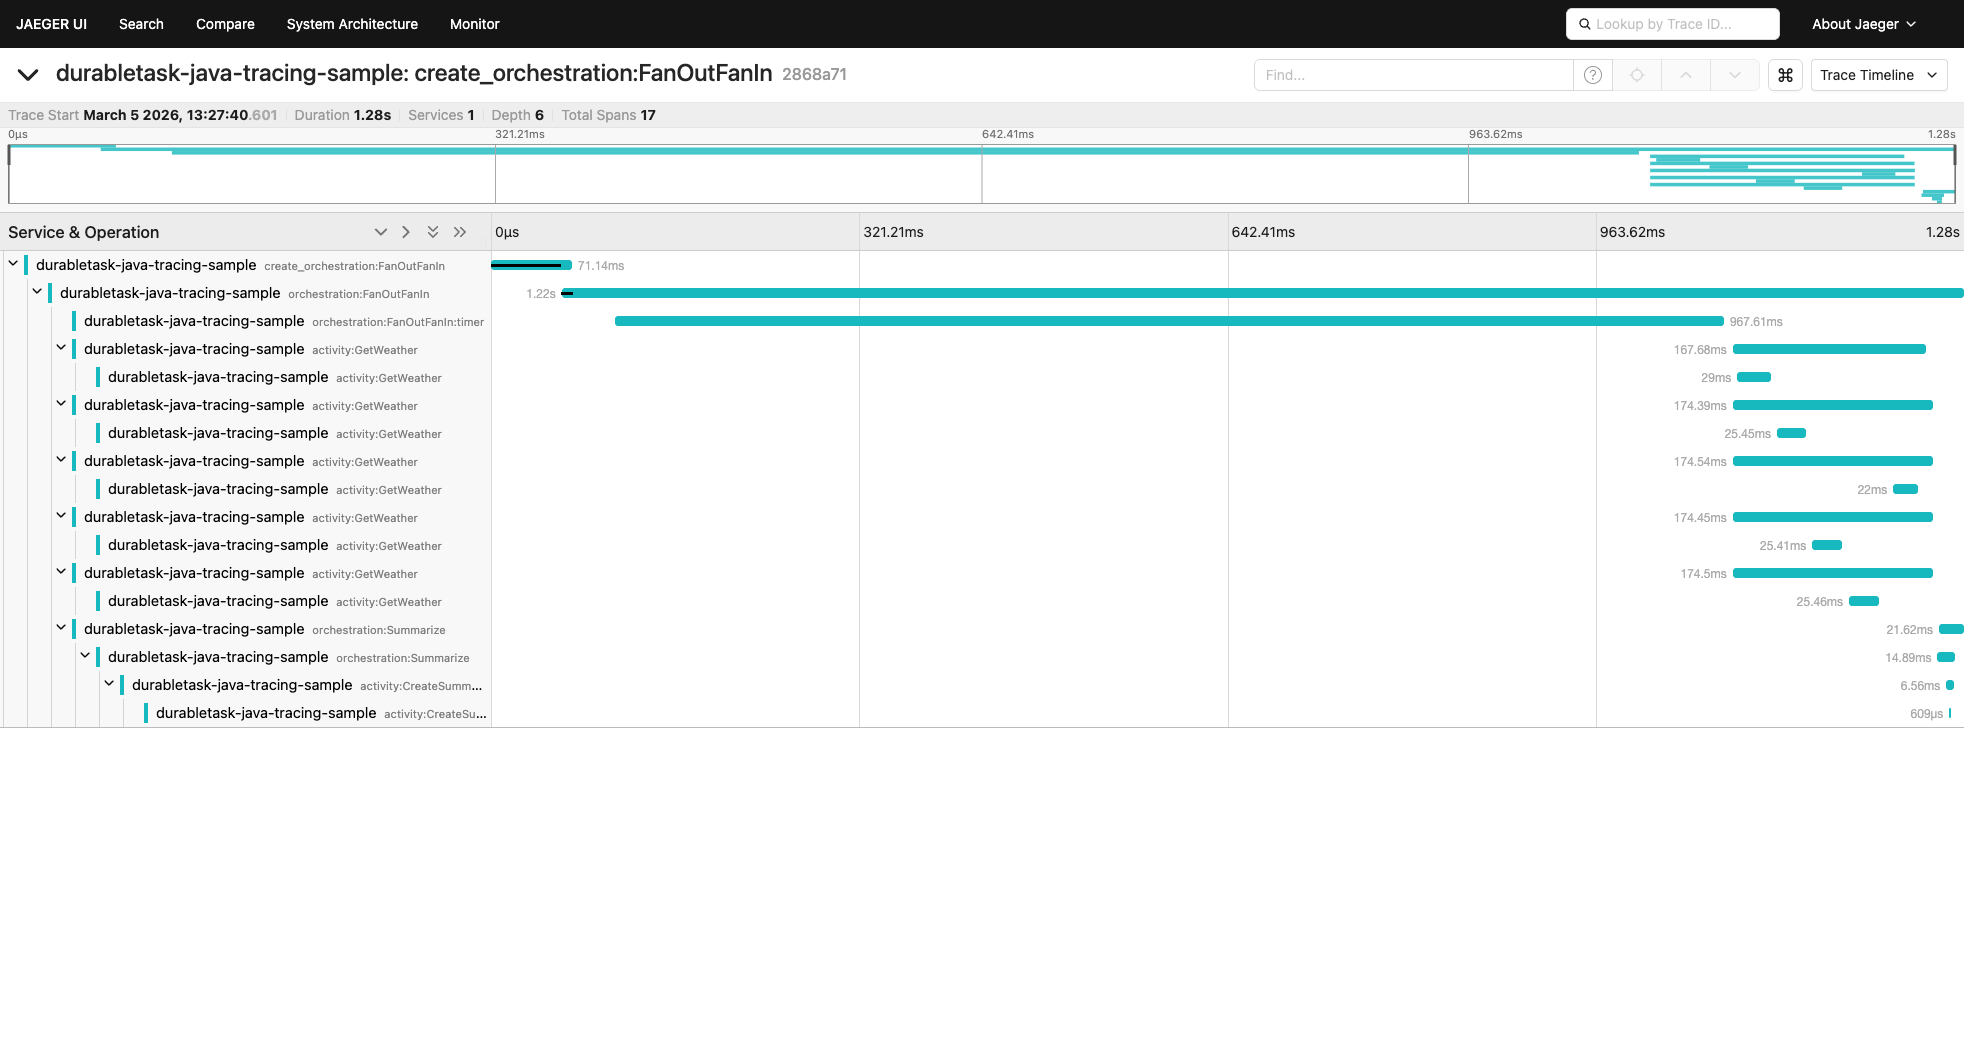
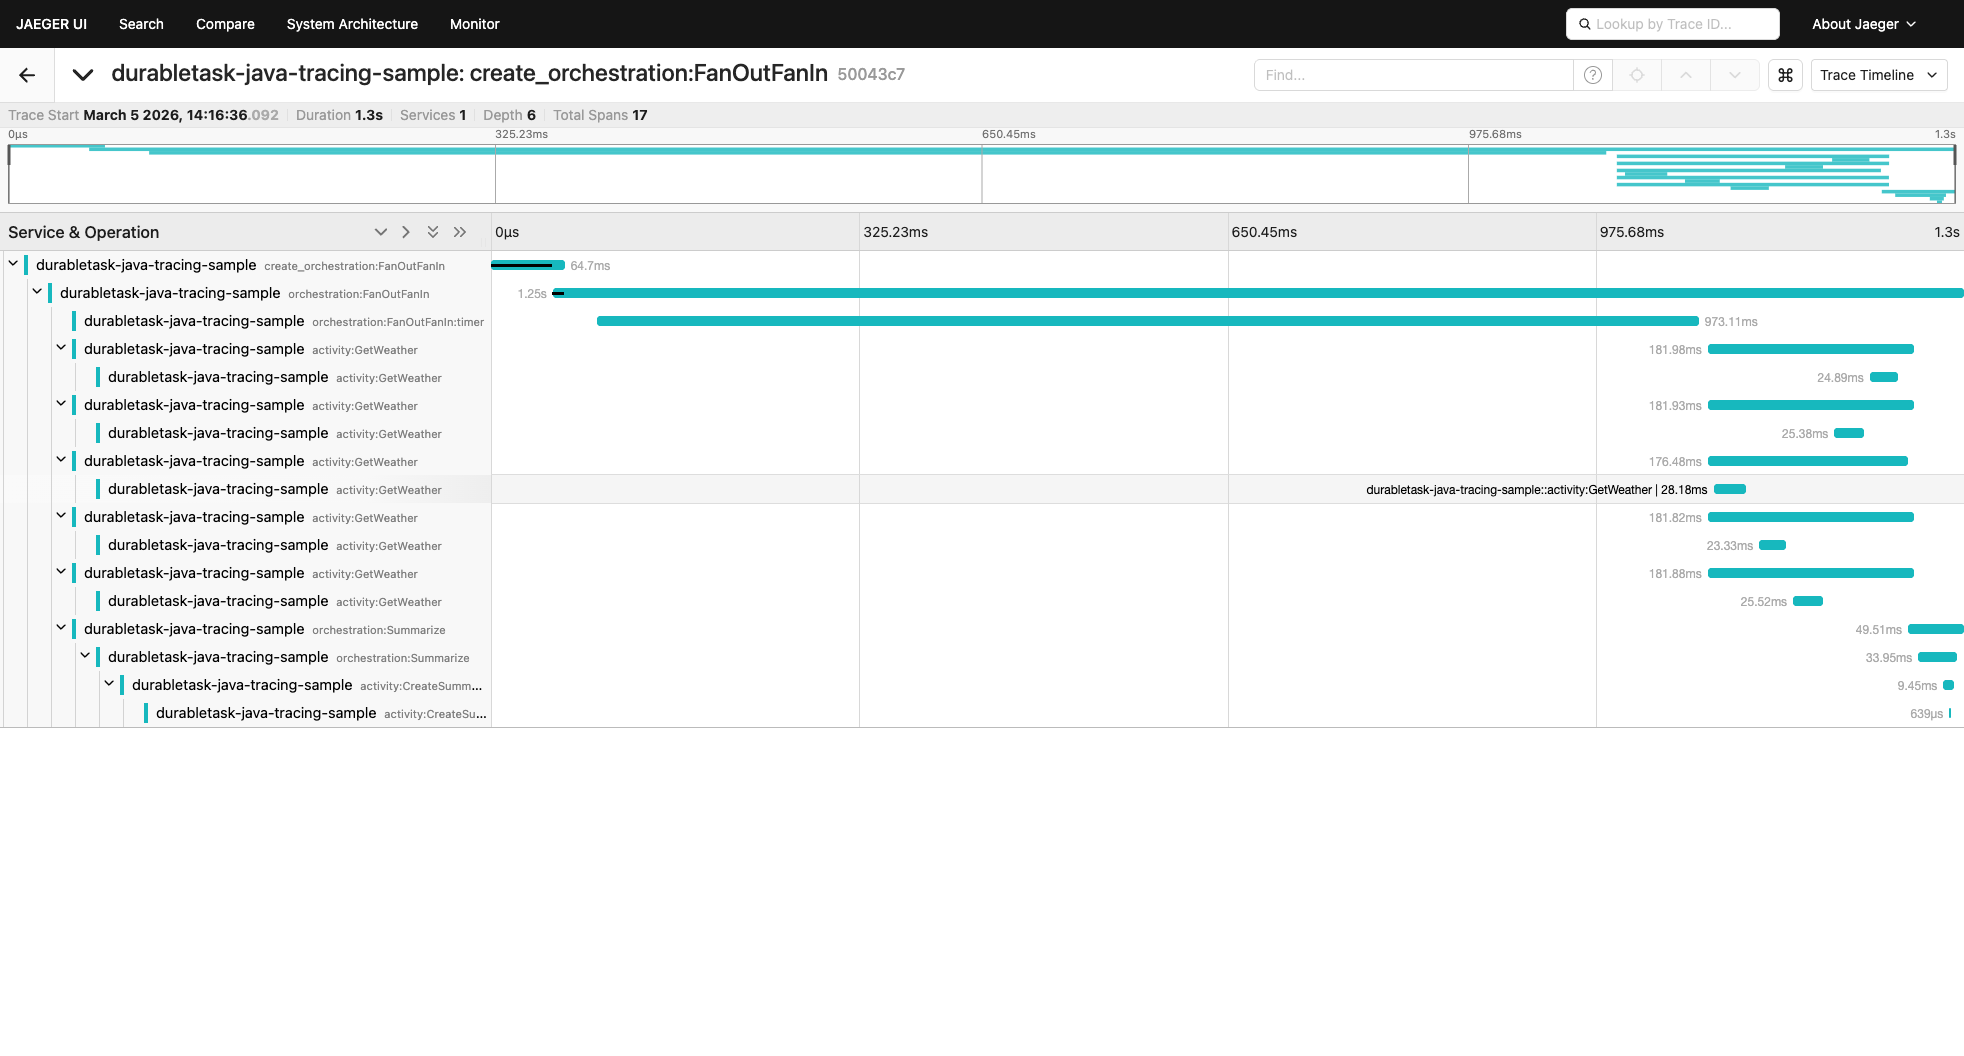
fix(tracing): fix sub-orchestration client span timing
Use the dispatch start time (OrchestratorStartedEvent) for sub-orchestration
client span start instead of SubOrchestrationInstanceCreatedEvent timestamp.
The created event is a server confirmation whose timestamp can be AFTER the
sub-orchestration's ExecutionStartedEvent, causing the client span to visually
start after the server span in Jaeger.

diff --git a/client/src/main/java/com/microsoft/durabletask/TaskOrchestrationExecutor.java b/client/src/main/java/com/microsoft/durabletask/TaskOrchestrationExecutor.java
@@ -561,7 +561,10 @@ final class TaskOrchestrationExecutor {
                         taskScheduled.getParentTraceContext().getTraceParent());
             }
 
-            storeSchedulingMetadata(taskId, taskScheduled.getName(), TracingHelper.TYPE_ACTIVITY, e, clientSpanId);
+            Instant activityScheduledTime = e.hasTimestamp()
+                    ? DataConverter.getInstantFromTimestamp(e.getTimestamp()) : null;
+            storeSchedulingMetadata(taskId, taskScheduled.getName(), TracingHelper.TYPE_ACTIVITY,
+                    activityScheduledTime, clientSpanId);
 
             // The history shows that this orchestrator created a durable task in a previous execution.
             // We can therefore remove it from the map of pending actions. If we can't find the pending
@@ -790,8 +793,13 @@ final class TaskOrchestrationExecutor {
                         subOrchestrationInstanceCreated.getParentTraceContext().getTraceParent());
             }
 
+            // Use the dispatch start time (OrchestratorStartedEvent) instead of the
+            // SubOrchestrationInstanceCreatedEvent timestamp. The created event is a server
+            // confirmation whose timestamp can be AFTER the sub-orchestration's
+            // ExecutionStartedEvent, causing the client span to visually start after the
+            // server span.
             storeSchedulingMetadata(taskId, subOrchestrationInstanceCreated.getName(),
-                    TracingHelper.TYPE_ORCHESTRATION, e, clientSpanId);
+                    TracingHelper.TYPE_ORCHESTRATION, this.getCurrentInstant(), clientSpanId);
 
             OrchestratorAction taskAction = this.pendingActions.remove(taskId);
             if (taskAction == null) {
@@ -1089,9 +1097,7 @@ final class TaskOrchestrationExecutor {
          * Stores scheduling metadata for a task so a retroactive client span can be emitted at completion time.
          */
         private void storeSchedulingMetadata(int taskId, String taskName, String spanType,
-                                              HistoryEvent e, String clientSpanId) {
-            Instant scheduledTime = e.hasTimestamp()
-                    ? DataConverter.getInstantFromTimestamp(e.getTimestamp()) : null;
+                                              Instant scheduledTime, String clientSpanId) {
             TraceContext spanParent = this.orchestrationSpanContext != null
                     ? this.orchestrationSpanContext : this.parentTraceContext;
             this.scheduledTaskInfoMap.put(taskId, new ScheduledTaskInfo(
